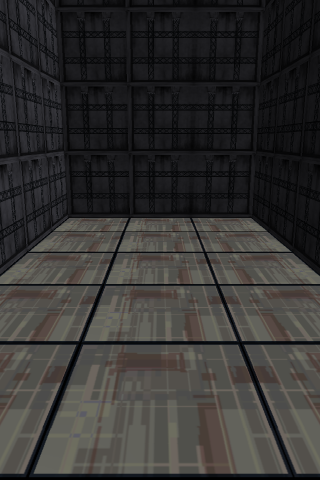
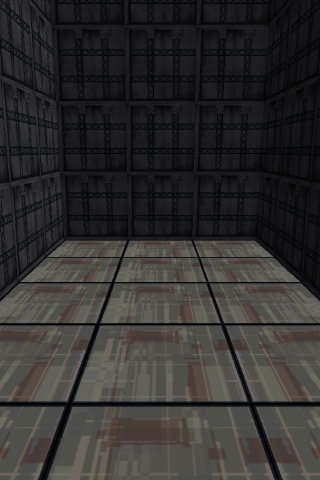
戦闘画面に背景をつけた。

diff --git a/public/javascripts/battleSceneBase.js b/public/javascripts/battleSceneBase.js
@@ -5,6 +5,8 @@ function battleSceneBase(spec,my){
     that.statusArray = $.extend(true, {}, spec.statusArray);
     that.userId = spec.userId;
     that.backgroundColor = "black";
+    that.sky = {};
+    that.ground = {};
     that.atackIcon = {};
     that.chargeIcon = {};
     that.plusIcon = {};
@@ -30,6 +32,20 @@ function battleSceneBase(spec,my){
 
     initSprite();
     function initSprite() {
+        //背景(空)
+        that.sky = new Sprite(320,220);
+        that.sky.image = core.assets[core.PICT_BG_SKY];
+        that.sky.x = 0;
+        that.sky.y = 0;
+        that.addChild(that.sky);
+
+        //背景(地面)
+        that.ground = new Sprite(320,320);
+        that.ground.image = core.assets[core.PICT_BG_GROUND];
+        that.ground.x = 0;
+        that.ground.y = 220;
+        that.addChild(that.ground);
+
         for(var uid in that.statusArray){
             //キャラクタースプライト
             var spec = {
@@ -41,7 +57,7 @@ function battleSceneBase(spec,my){
 
             //HPメータ
             that.hpMertorArray[uid] = hpMertor();
-            that.hpMertorArray[uid].y = 4;
+            that.hpMertorArray[uid].y = 24;
             that.hpMertorArray[uid].x = uid===that.userId ? 190 : 10;
             that.hpMertorArray[uid].setValue(that.statusArray[uid].hp);
             that.addChild(that.hpMertorArray[uid]);
@@ -54,7 +70,7 @@ function battleSceneBase(spec,my){
                 direction : uid===that.userId ? 'right' : 'left'
             });
             that.activeBarArray[uid].x = uid===that.userId ? 190 : 130;
-            that.activeBarArray[uid].y = 22;
+            that.activeBarArray[uid].y = 42;
             that.addChild(that.activeBarArray[uid]);
 
             //バッテリーメータ
@@ -64,7 +80,7 @@ function battleSceneBase(spec,my){
                 direction : uid===that.userId ? 'right' : 'left'
             });
             that.batteryMertorArray[uid].x = uid===that.userId ? 190 : 10;
-            that.batteryMertorArray[uid].y = 43;
+            that.batteryMertorArray[uid].y = 63;
             that.batteryMertorArray[uid].setValue(5);
             that.addChild(that.batteryMertorArray[uid]);
 
@@ -72,7 +88,7 @@ function battleSceneBase(spec,my){
             that.batteryNumberArray[uid] = new Sprite(64,64);
             that.batteryNumberArray[uid].image = core.assets[core.PICT_BATTERY_NUMBER];
             that.batteryNumberArray[uid].x = uid===that.userId ? 226 : 30;
-            that.batteryNumberArray[uid].y = 110;
+            that.batteryNumberArray[uid].y = 170;
             that.batteryNumberArray[uid].visible = false;
             that.addChild(that.batteryNumberArray[uid]);
 
@@ -81,7 +97,7 @@ function battleSceneBase(spec,my){
                 pict : core.assets[core.PICT_DAMAGE]
             });
             that.damageLabelArray[uid].x = uid===that.userId ? 240 : 80;
-            that.damageLabelArray[uid].y = 210;
+            that.damageLabelArray[uid].y = 270;
             that.damageLabelArray[uid].setVisible(false);
             that.addChild(that.damageLabelArray[uid]);
 
@@ -89,7 +105,7 @@ function battleSceneBase(spec,my){
             that.subDamageLabelArray[uid] = new Sprite(128,24);
             that.subDamageLabelArray[uid].image = core.assets[core.PICT_HIT_TEXT];
             that.subDamageLabelArray[uid].x = uid===that.userId ? 176 : 16;
-            that.subDamageLabelArray[uid].y = 240;
+            that.subDamageLabelArray[uid].y = 300;
             that.subDamageLabelArray[uid].visible = false;
             that.addChild(that.subDamageLabelArray[uid]);
 
@@ -98,7 +114,7 @@ function battleSceneBase(spec,my){
                 pict : core.assets[core.PICT_HIT_EFFECT]
             });
             that.hitEffect[uid].x = uid===that.userId ? 128 : -64;
-            that.hitEffect[uid].y = 16;
+            that.hitEffect[uid].y = 76;
             that.addChild(that.hitEffect[uid]);
         }
 

diff --git a/public/javascripts/gameBase.js b/public/javascripts/gameBase.js
@@ -13,6 +13,8 @@ function gameBase(spec,my){
     core.PICT_HIT_TEXT = core.PICT_PREFIX+'hitText.png';
     core.PICT_SYSTEM_BACKGROUND = core.PICT_PREFIX+'systemBackGround.PNG';
     core.PICT_BULUE_BUTTON = core.PICT_PREFIX+'buttonBlue.png';
+    core.PICT_BG_GROUND = core.PICT_PREFIX+'bgGround.png';
+    core.PICT_BG_SKY = core.PICT_PREFIX+'bgSky.png';
     core.WAIT_TIME_ACTIVE_RESET = 30;
     core.ICON_WIDTH = 124;
     core.ICON_HEIGHT = 40;
@@ -52,6 +54,8 @@ function gameBase(spec,my){
         core.preload(core.PICT_HIT_TEXT);
         core.preload(core.PICT_SYSTEM_BACKGROUND);
         core.preload(core.PICT_BULUE_BUTTON);
+        core.preload(core.PICT_BG_GROUND);
+        core.preload(core.PICT_BG_SKY);
     }
     return core;
 }

diff --git a/public/javascripts/ArmdozerSprite.js b/public/javascripts/ArmdozerSprite.js
@@ -2,9 +2,9 @@ function ArmdozerSprite(spec,my) {
     var SPRITE_WIDTH = 128;
     var SPRITE_HEIGHT = 128;
     var DEFAULT_X_FOR_DIRECTION_RIGHT = 192;
-    var DEFAULT_Y_FOR_DIRECTION_RIGHT = 80;
+    var DEFAULT_Y_FOR_DIRECTION_RIGHT = 140;
     var DEFAULT_X_FOR_DIRECTION_LEFT = 0;
-    var DEFAULT_Y_FOR_DIRECTION_LEFT = 80;
+    var DEFAULT_Y_FOR_DIRECTION_LEFT = 140;
     var DIRECTION_RIGHT = 'right';
 
     var that = new Sprite(SPRITE_WIDTH,SPRITE_HEIGHT);
